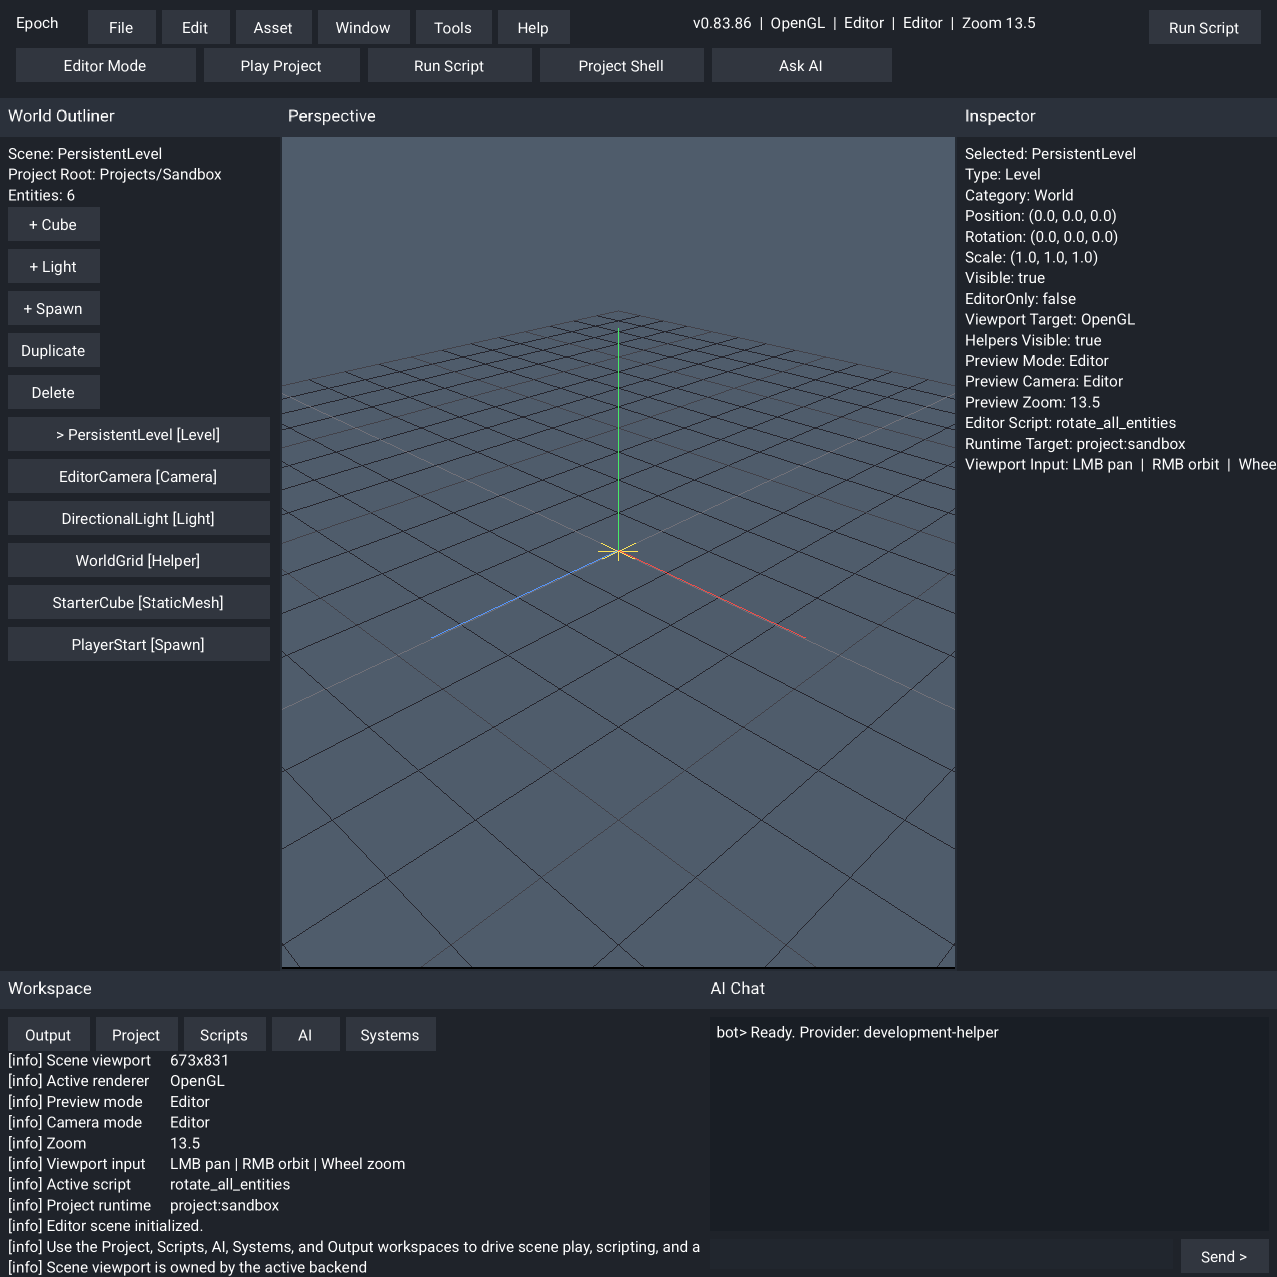
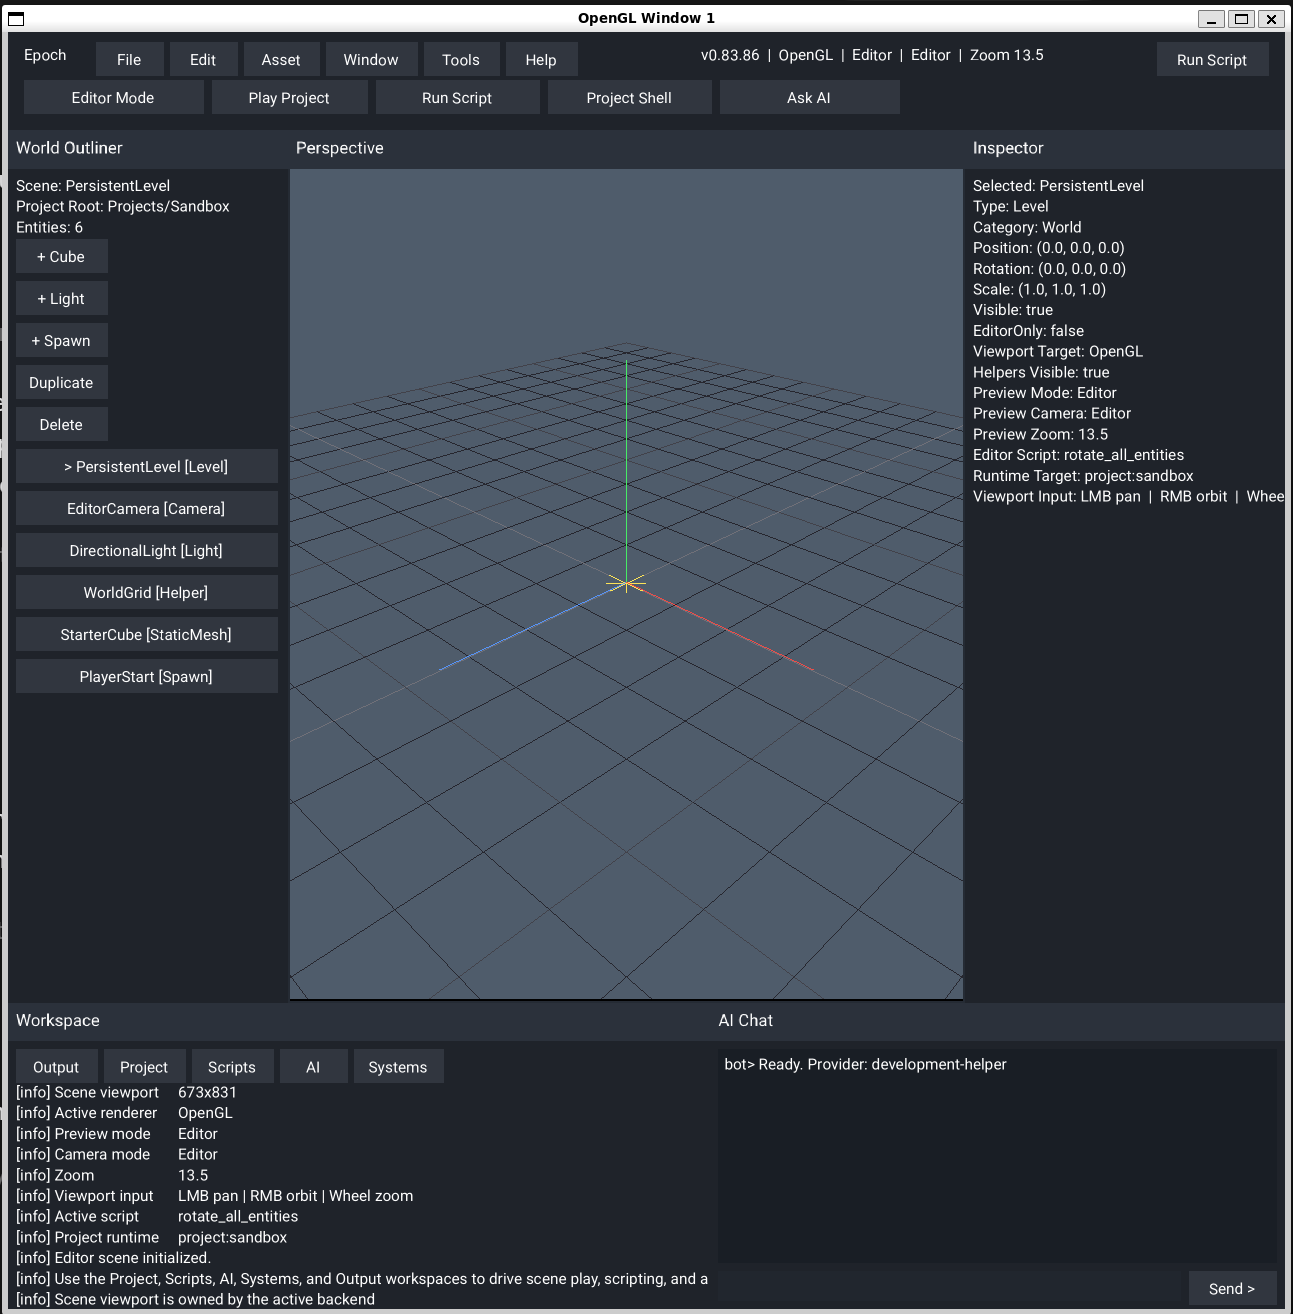
Rewrite README and prune proof images

diff --git a/README.md b/README.md
@@ -3,22 +3,19 @@
 # Epoch - Creative Software And Game Engine
 
 **Epoch Engine** is a professional **C++23 game engine and creative software
-platform** for building games, editors, tools, pipelines, and real-time
-interactive systems from a single modern codebase. It combines a
-modules-first architecture, two engine AI runtime roles under one
-engine-owned surface, custom UI powered by an automated texture-atlas
-system, built-in C++23 scripting that compiles with the engine and project,
-multi-context rendering, launcher + editor workflows, a project-driven
-runtime built around engine projects and scenes, and a shared time-system
-spine that treats simulation pacing, pause/resume, scaling, and stepping as
-first-class engine ownership instead of ad hoc per-backend behavior.
+platform** for games, editors, tools, automation, and real-time interactive
+workflows from one codebase. The active source tree is centered on a
+modules-first engine surface, a project-driven editor/runtime flow, custom UI
+and text rendering through Epoch's atlas system, engine-owned C++23 scripting,
+multi-context rendering, and a staged two-role AI workspace that keeps helper
+automation reviewable instead of pretending blind autonomy is already solved.
 
 <p align="left">
+  <img src="https://img.shields.io/badge/Current_Source-v0.83.86-1F7A4C?style=for-the-badge" alt="Current source v0.83.86" />
+  <img src="https://img.shields.io/badge/Published_Release-v0.83.85-2C6A8A?style=for-the-badge" alt="Published release v0.83.85" />
   <img src="https://img.shields.io/badge/Project--Driven_Runtime-1F6F78?style=for-the-badge" alt="Project-driven runtime" />
-  <img src="https://img.shields.io/badge/Custom_UI_Texture--Atlas_System-405C8A?style=for-the-badge" alt="Custom UI powered by an automated texture-atlas system" />
-  <img src="https://img.shields.io/badge/Compiled_C%2B%2B23_Scripting-8A5C2F?style=for-the-badge" alt="Compiled C++23 scripting" />
   <img src="https://img.shields.io/badge/Multicontext_Tooling-486B4A?style=for-the-badge" alt="Multicontext tooling" />
-  <img src="https://img.shields.io/badge/Time--System_Spine-7A4A4A?style=for-the-badge" alt="Time-system spine" />
+  <img src="https://img.shields.io/badge/Compiled_C%2B%2B23_Scripting-8A5C2F?style=for-the-badge" alt="Compiled C++23 scripting" />
   <img src="https://img.shields.io/badge/AI--Assisted_Engine_Ops-5A4D86?style=for-the-badge" alt="AI-assisted engine operations" />
 </p>
 
@@ -39,23 +36,22 @@ x64/Debug/
 x64/Release/
 ```
 
-Those binary folders also carry runtime assets, so launching from the binary
-directory is the safest default for local testing.
-
-For Windows multi-context smoke tests, prefer launching directly from
-`x64/Debug/` or `x64/Release/` so docked SDL/SFML/Vulkan panes see the same
-asset set as the main editor host.
+Those binary folders carry runtime assets too, so launching from the binary
+directory is the safest default for local testing. For Windows multicontext
+validation, prefer `x64/Debug/` or `x64/Release/` so SDL/SFML/Vulkan panes see
+the same asset set as the main editor host.
 
 ---
 
 # What Epoch provides
 
 - A project-driven runtime shell that creates, selects, builds, and plays real
-  game or software projects instead of trapping the editor in fake sample flows.
-- A split shell visual direction: the launcher can keep its older classic steel
+  game or software projects instead of trapping the editor in fake sample
+  flows.
+- A split shell visual direction: the launcher can keep its classic steel
   palette while the editor stays on a darker neutral tool palette, with a
-  future settings-level theme selector planned once scoped GUI themes are fully
-  stabilized.
+  future settings-level theme selector still planned once scoped GUI themes are
+  fully stabilized.
 - An embedded-engine project path that is being shaped around headers, modules,
   source, scripting, and resources together so generated child builds can
   graduate into honest standalone work.
@@ -64,13 +60,13 @@ asset set as the main editor host.
 - Engine-owned C++23 compiled scripting with project-local source resolution,
   host callbacks, validation/build actions, and runtime execution from the live
   editor shell.
-- Multicontext backend orchestration across OpenGL, Vulkan, SDL3, Raylib, SFML,
-  software, and headless/noop paths, with shared preview math keeping scene
-  framing closer across the visible renderers.
+- Multicontext backend orchestration across OpenGL, Vulkan, SDL3, Raylib,
+  SFML, software, and headless/noop paths, with shared preview math keeping
+  scene framing closer across the visible renderers.
 - A Systems workspace that is becoming a real tooling surface for frame/task
   graph views, support-tier diagnostics, pacing visibility, and deeper
   renderer/runtime instrumentation.
-- A time-based engine spine that owns fixed-step simulation, frame pacing,
+- A time-system spine that owns fixed-step simulation, frame pacing,
   pause/resume, scaling, single-step control, and future replay/timeline hooks
   instead of leaving timing scattered across backends.
 - Two intentional in-engine AI roles, the internal EpochBot and the local
@@ -79,31 +75,22 @@ asset set as the main editor host.
 - Broad hardware support aimed at 6-core / GTX 1660 Ti-era desktops and modern
   Linux laptops by default, with heavier renderer features and extra libs kept
   behind explicit support tiers or project opt-in.
-- Cross-platform build freedom through Visual Studio, MSBuild, CMake presets,
-  VS Code, shell scripts, and a module-first C++23 public surface that is still
-  being cleaned up toward more professional naming.
 
 ---
 
 # In action
 
 These README captures are source-state proofs, not updater-shell screenshots.
-The current six-context proof is promoted from engine-generated capture outputs
-so the repo image stays aligned with the real editor/runtime state.
-If a packaged bootstrap release looks older than these, it has not caught up to
-the current source/editor state yet.
+They are intentionally limited to the three images that matter most right now:
+the full Windows multicontext state, a real promoted-window undock validation,
+and the current Linux WSL proof.
 
 - A valid six-context proof must visibly show `Raylib`, `SDL`, `SFML`,
   `Vulkan`, `OpenGL`, and `Software`.
-- Parent/helper host windows must not become stray fake panes. For the current
-  stable Windows parented path, the visible top-row panes are the real
-  `GLFW30`, `SDL_app`, and `SFML_Window` child surfaces, while the old
-  `EpochChild` wrappers stay hidden.
-- Black or empty software captures do not count as proof.
-- Refresh the multicontext proof at least every 10th feature version, or
-  sooner whenever renderer color, docking, context visibility, or layout
-  behavior changes enough to make the older image misleading.
-- Capture from an asset-bearing `x64/Debug/` or `x64/Release/` launch only.
+- The promoted-window proof must show a real detached window outside the main
+  parent, not a fake undock still trapped inside it.
+- The Linux proof should come from the asset-bearing WSL build output, not a
+  half-wired source-tree launch.
 
 Windows fullscreen six-context multicontext proof, source `v0.83.85`:
 
@@ -111,8 +98,9 @@ Windows fullscreen six-context multicontext proof, source `v0.83.85`:
   <img src="Images/readme/windows-multicontext-editor-v08385.png" alt="Epoch Windows fullscreen six-context multicontext proof" />
 </p>
 
-Open the PNG directly for native resolution when checking all six panes. GitHub's
-page scaling can make the third column and lower row harder to read at a glance.
+Open the PNG directly for native resolution when checking all six panes.
+GitHub's page scaling can make the lower row and right column harder to read
+at a glance.
 
 Windows promoted-window undock proof, live validation:
 
@@ -121,19 +109,8 @@ Windows promoted-window undock proof, live validation:
 </p>
 
 - The undock proof above is a live desktop capture from a successful six-pane
-  validation, showing the detached SDL/SFML-style promoted shell behavior
-  outside the main parent instead of visually freezing inside it.
-
----
-
-Windows backend proof crops, refreshed from the latest fullscreen six-context
-source proof:
-
-<p align="center">
-  <img src="Images/readme/windows-opengl.png" alt="Epoch Windows OpenGL editor proof" width="32%" />
-  <img src="Images/readme/windows-sdl.png" alt="Epoch Windows SDL editor proof" width="32%" />
-  <img src="Images/readme/windows-software.png" alt="Epoch Windows software editor proof" width="32%" />
-</p>
+  validation, showing the detached promoted-shell behavior outside the main
+  parent.
 
 ---
 
@@ -145,15 +122,13 @@ WSL/Linux editor proof, source `v0.83.86`:
 
 WSL/Linux note:
 
-- The Linux screenshot above comes from the engine's own frame capture under
-  WSLg from the asset-bearing `Engine/Bin/Clang-Release/` output, which keeps
-  the proof tied to the real packaged/runtime layout instead of a half-wired
-  source-tree launch.
+- The Linux screenshot above comes from a live WSL editor run under WSLg using
+  the asset-bearing `Engine/Bin/Clang-Release/` output.
 - The current Linux proof uses the OpenGL editor path because that is the
   validated main-runtime route on this workstation's WSL2 setup.
 - The packaged Linux artifact should behave as the main runtime release by
-  default. Updater-shell mode is now treated as an explicit bootstrap build,
-  not the standard Linux packaged identity.
+  default. Updater-shell mode is an explicit bootstrap path, not the normal
+  Linux packaged identity.
 
 ---
 
@@ -376,36 +351,24 @@ Useful entry points:
 
 # Current snapshot
 
-<p align="left">
-  <img src="https://img.shields.io/badge/Current_Source-v0.83.86-1F7A4C?style=for-the-badge" alt="Current source v0.83.86" />
-  <img src="https://img.shields.io/badge/Project_Shell-Repo_Projects_Wired-2C6A8A?style=for-the-badge" alt="Repo-root project shells wired" />
-  <img src="https://img.shields.io/badge/MSVC_Warnings-C5202_Removed-7A5A2F?style=for-the-badge" alt="MSVC C5202 removed" />
-</p>
-
 Highlights:
-- The source tree is now on `v0.83.86`, above the published `v0.83.85`
-  release.
-- The six-pane Win32 runtime has been pulled back toward the working legacy
-  contract: SDL3 and SFML3 promote their visible proxy shell into a real
-  top-level detached window instead of staying visually trapped inside the
-  parent.
-- Clean human six-pane validation is now treated as the final truth for
-  SDL/SFML undock behavior, with the harness kept as an observation/capture aid
-  instead of the only signoff path when synthetic input diverges.
+
+- The current source tree is on `v0.83.86`, above the published `v0.83.85`
+  release snapshot.
+- The README proof set is intentionally reduced to the three images that matter
+  most right now: full Windows multicontext state, real promoted-window undock
+  validation, and current Linux WSL proof.
 - Generated project shells still expose concrete build/runtime proof inside the
-  editor, including `project.paths.txt`, child build logs, expected outputs, and
-  active script/source checks.
-- The AI workspace now surfaces staged iteration/capture roots and keeps the
-  two-role EpochBot plus MCP/control split explicit instead of drifting toward
-  vague self-coding claims.
-- Linux packaged runtime guidance is now aligned with the actual build defaults:
+  editor, including `project.paths.txt`, child build logs, expected outputs,
+  and active script/source checks.
+- The AI workspace keeps the two-role EpochBot plus MCP/control split explicit,
+  with staged captures, iteration packets, curated datasets, and eval roots
+  surfaced instead of drifting into vague self-coding claims.
+- Linux packaged runtime guidance is aligned with the actual build defaults:
   the main packaged `epoch` runtime is the normal Linux product path, and
   updater-shell mode is an explicit bootstrap build only.
-- WSL2 clang Release verification succeeded for the published `v0.83.85`
-  main-runtime OpenGL plus software path, and the current source tree now moves
-  forward on `v0.83.86`.
 - The roadmap continues to center single-context editor OpenGL, single-context
-  launcher software, deliberate backend switching, and full teardown of inactive
+  launcher software, deliberate backend switching, and teardown of inactive
   backends instead of leaving hidden renderers running in the background.
 - Detailed release history lives in [Changes/changelog.txt](Changes/changelog.txt),
   [Changes/release_notes_archive.md](Changes/release_notes_archive.md), and the
